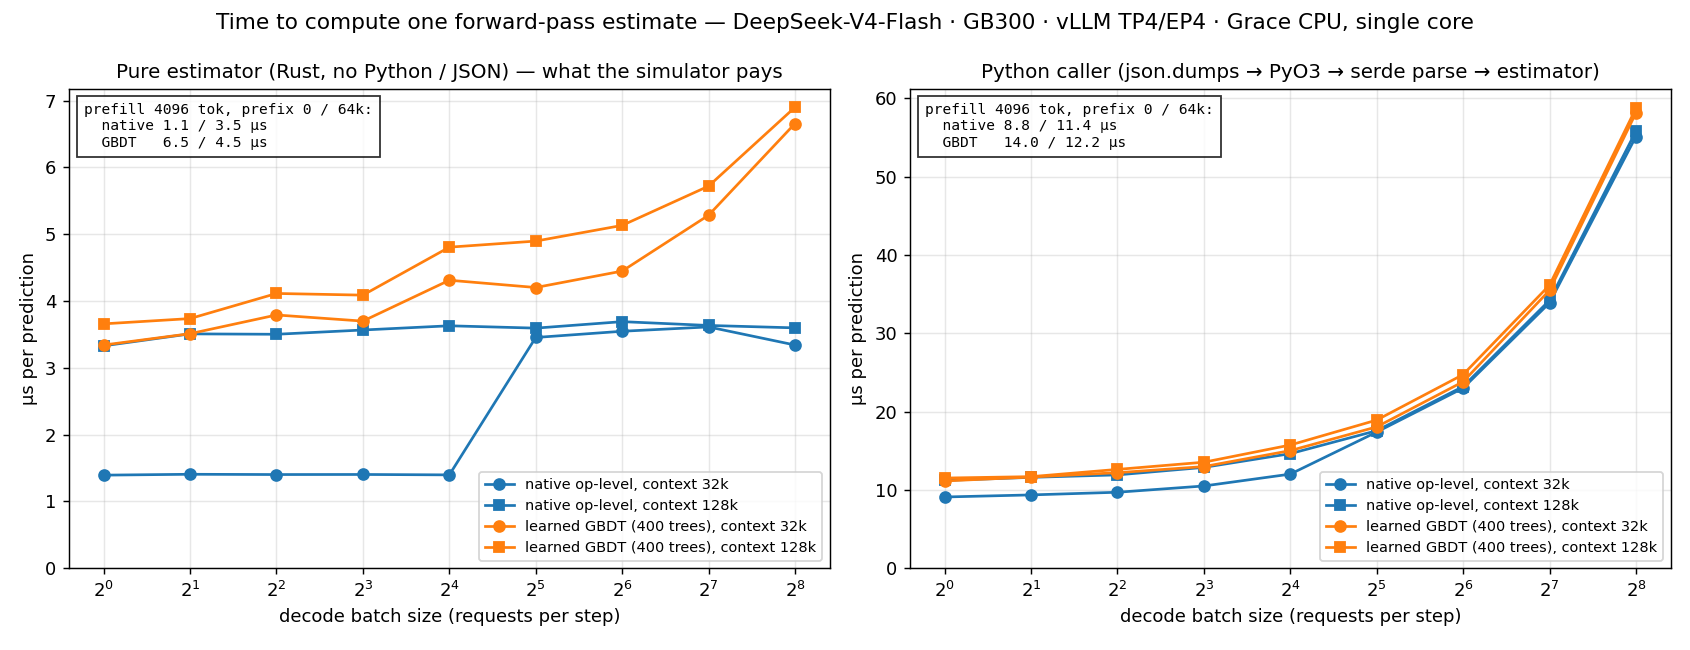
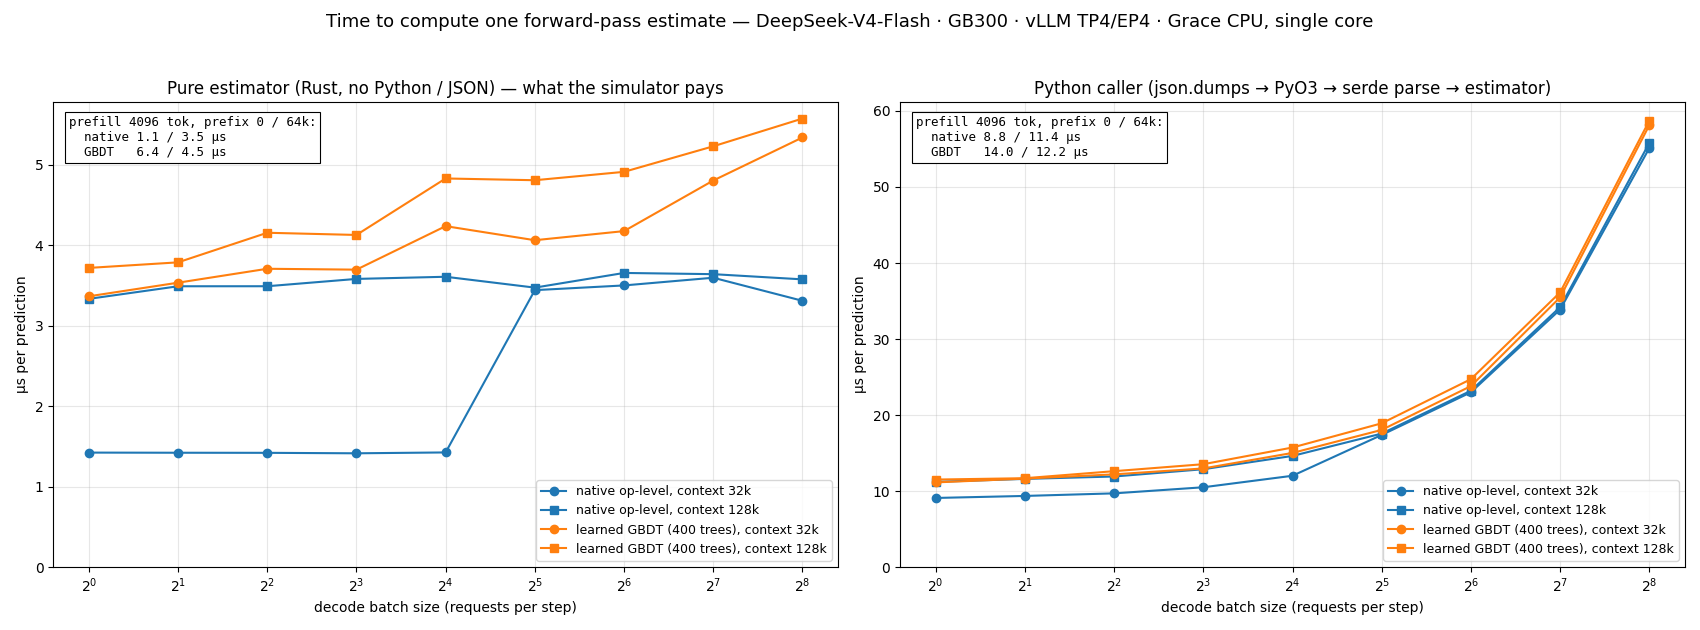
feat(fpm-learned): core4 feature preset; docs: feature ablation and re-measured estimator latency
Ablation on the GB300 SGLang V4.1-Flash captures: four features (batch size,
sum extend, sum past, attention proxy) match the 18-feature set within the
training workload mix and on decode extrapolation, but prefill extrapolation
degrades, so core4 is an opt-in preset and sglang18 stays the default.
Re-measured Rust GBDT latency after the single-pass feature build:
3.4-5.6 us from decode batch 1 to 256 (was 3.3-6.9).

diff --git a/python/aisimulate/src/aisimulate_core/sdk/fpm_learned.py b/python/aisimulate/src/aisimulate_core/sdk/fpm_learned.py
@@ -113,10 +113,20 @@ SLOT_FEATURE_NAMES: tuple[str, ...] = tuple(
 FEATURE_NAMES: tuple[str, ...] = AGGREGATE_FEATURE_NAMES + REQUEST_FEATURE_NAMES + SLOT_FEATURE_NAMES
 
 # Feature presets: ``v1`` uses aggregates only (works on any FPM stream),
-# ``sglang18`` / ``hisim`` need per-request lists, ``all`` is the union.
+# ``sglang18`` / ``core4`` / ``hisim`` need per-request lists, ``all`` is the
+# union. ``core4`` is the ablation minimum (batch size, sum extend, sum past,
+# attention proxy): same accuracy as ``sglang18`` in-distribution and for decode
+# extrapolation, worse for prefill extrapolation; see docs/fpm_ml/design.md §3.
+CORE4_FEATURE_NAMES: tuple[str, ...] = (
+    "req_batch_size",
+    "req_sum_extend",
+    "req_sum_past",
+    "req_sum_attn_flops",
+)
 FEATURE_PRESETS: dict[str, tuple[str, ...]] = {
     "v1": AGGREGATE_FEATURE_NAMES,
     "sglang18": REQUEST_FEATURE_NAMES,
+    "core4": CORE4_FEATURE_NAMES,
     "hisim": ("req_batch_size",) + SLOT_FEATURE_NAMES,
     "all": FEATURE_NAMES,
 }
@@ -867,7 +877,7 @@ def _build_parser() -> argparse.ArgumentParser:
     tr.add_argument(
         "--features",
         default=None,
-        help="preset (v1 | sglang18 | hisim | all) or comma-separated feature names; default: sglang18",
+        help="preset (v1 | sglang18 | core4 | hisim | all) or comma-separated feature names; default: sglang18",
     )
     tr.add_argument("--target", choices=TARGETS, default="log_ms")
     tr.add_argument("--max-iter", type=int, default=600)

diff --git a/python/aisimulate/tests/unit/sdk/test_fpm_learned.py b/python/aisimulate/tests/unit/sdk/test_fpm_learned.py
@@ -380,6 +380,26 @@ def test_evaluate_counts_refused_and_unpredicted_iterations() -> None:
     assert "_refused" in fpm_learned._format_report(report)
 
 
+def test_train_core4_preset_roundtrip() -> None:
+    pytest.importorskip("sklearn")
+    iterations = []
+    for i in range(300):
+        nd = 1 + i % 8
+        past = 500 * (1 + (i * 5) % 40)
+        wall = 0.004 + 0.0003 * nd + 0.00000004 * past * nd
+        fpm = _decode_fpm(nd, past * nd, wall, counter=i)
+        fpm["scheduled_requests"]["extend_lengths"] = [1] * nd
+        fpm["scheduled_requests"]["past_kv_lengths"] = [past] * nd
+        iterations.append([fpm])
+    core4 = fpm_learned.FEATURE_PRESETS["core4"]
+    artifact = fpm_learned.train(iterations, "decode", features=core4, max_iter=30, min_store_rows=10)
+    assert artifact["features"] == ["req_batch_size", "req_sum_extend", "req_sum_past", "req_sum_attn_flops"]
+    fpm_learned.validate_artifact(artifact)
+    predict = lambda m: fpm_reference.reference_predict_ms(artifact, m)  # noqa: E731
+    report = fpm_learned.evaluate(artifact, iterations, predict=predict)
+    assert report["pure_decode"]["mape_pct"] < 12.0
+
+
 def test_train_hisim_slot_features_roundtrip() -> None:
     pytest.importorskip("sklearn")
     iterations = []

diff --git a/python/aisimulate/docs/fpm_ml/design.md b/python/aisimulate/docs/fpm_ml/design.md
@@ -167,6 +167,7 @@ The feature space is a fixed 135-name ABI; an artifact lists the names it reads
 | --- | --- | --- |
 | `v1` | 21 aggregates + their `log1p` and derived ratios | stock FPM v1, no lists needed |
 | `sglang18` (default) | the 18 per-request features below | per-request lists |
+| `core4` | `req_batch_size`, `req_sum_extend`, `req_sum_past`, `req_sum_attn_flops` (the ablation minimum, §3.1) | per-request lists |
 | `hisim` | `req_batch_size` + 32 request slots × (present, past, extend), requests sorted by past descending | per-request lists |
 
 The `sglang18` set is the feature definition of the SGLang simulator's
@@ -194,8 +195,58 @@ Why these and not raw lists: trees need a fixed-width input; sums, extremes and 
 attention proxy capture the two cost drivers (GEMM work ∝ Σ e_i, attention work
 ∝ Σ e_i·p_i) plus the batch shape (n, spread) that decides kernel selection and
 padding. `v1` and `hisim` land within 0.3–0.6 pp of `sglang18` on every deployment
-tested; `sglang18` is the default because it is the smallest set that carries the
-per-request information.
+tested; `sglang18` is the default because it carries the per-request information and,
+unlike the smaller subsets below, keeps its accuracy when the training and test workloads
+differ.
+
+### 3.1 How many of the 18 features are needed
+
+Two ablations on the GB300 SGLang V4.1-Flash data of §7.1, same method as the results
+tables (per-step APE, step-weighted). Nested subsets of the 18 (`core10` … `core4`) drop
+the derived terms first and the extremes last:
+
+| subset | features |
+| --- | --- |
+| `core10` | batch size; sum/max/min extend; sum/max/min past; Σ e·p; attention proxy; `is_decode` |
+| `core8` | `core10` without min extend, min past |
+| `core6` | batch size; sum/max extend; sum/max past; attention proxy |
+| `core4` | batch size; Σ extend; Σ past; attention proxy |
+
+**Same workload mix in train and test** (the ten runs pooled, first 60 % of each tier
+trains, last 40 % tests; MAPE):
+
+| features | n | decode | prefill |
+| --- | --- | --- | --- |
+| `sglang18` | 18 | 2.05 % | 1.98 % |
+| `core10` | 10 | 2.04 % | 1.98 % |
+| `core8` | 8 | 2.05 % | 1.97 % |
+| `core6` | 6 | 2.05 % | 1.97 % |
+| `core4` | 4 | 2.02 % | 1.97 % |
+| `v1` (aggregates) | 21 | 2.04 % | 2.16 % |
+
+**Train on one workload, test on another** (all runs of the first train, all runs of the
+second test; MAPE, `sglang18` → `core4`):
+
+| train → test | decode | prefill |
+| --- | --- | --- |
+| AgentX → LongBench | 3.03 → 3.56 % | 0.88 → 0.81 % |
+| LongBench → AgentX | 2.91 → 2.86 % | 6.52 → 15.12 % |
+| AgentX → ShareGPT | 14.14 → 12.41 % | 3.49 → 3.67 % |
+| ShareGPT → AgentX | 3.88 → 4.34 % | 26.23 → 31.79 % |
+| ShareGPT → LongBench | 3.43 → 4.39 % | 43.17 → 55.09 % |
+| LongBench → ShareGPT | 22.45 → 22.17 % | 29.42 → 75.62 % |
+
+Within the training distribution four features are as good as eighteen, for both roles:
+the trees recover the rest (extremes, spread, cross terms) from the sums. Under
+extrapolation the picture splits. Decode moves by at most ±1 pp either way. Prefill gets
+markedly worse with `core4` in four of six directions (LongBench → AgentX 6.5 → 15 %,
+LongBench → ShareGPT 29 → 76 %): a prefill batch's cost depends on how its tokens are
+distributed over requests (one 8k chunk vs. eight 1k requests), which the sums alone do not
+distinguish and the extremes and cross terms do. Hence `core4` is offered as a preset for
+decode-only or in-distribution use, and `sglang18` stays the default. The feature build is
+not the inference bottleneck either way (§8: 2 µs of a 5.6 µs call at batch 256, nothing at
+batch 1). Raw output: `feature_ablation_pooled.txt`, `feature_ablation_cross.txt` in the
+playground `reports/`.
 
 ## 4. Model
 
@@ -478,13 +529,16 @@ step; single Grace core, release build; details and the native-model comparison 
 
 | decode batch size | GBDT alone (Rust call) | through the Python wrapper |
 | --- | --- | --- |
-| 1 | 3.3 µs | 11 µs |
-| 16 | 4.3 µs | 15 µs |
-| 64 | 5.1 µs | 25 µs |
-| 256 | 6.9 µs | 59 µs |
+| 1 | 3.4 µs | 11 µs |
+| 16 | 4.2 µs | 15 µs |
+| 64 | 4.9 µs | 25 µs |
+| 256 | 5.6 µs | 59 µs |
 
-The GBDT itself is nearly flat in batch size (the tree walk is a few microseconds; only the
-18-feature build over the per-request lists grows). Everything above that in the Python
+The GBDT itself is nearly flat in batch size: the tree walk is a few microseconds, and the
+18-feature build over the per-request lists adds about 8 ns per request (2 µs at batch
+256) after the feature vector was made a single pass over the `(extend, past)` pairs with
+no per-call allocation, sorting only for artifacts that read the HiSim slots (before that
+change the batch-256 call was 6.9 µs). Everything above that in the Python
 column is the wrapper serialising the FPM dict to JSON and Rust parsing it, which is linear
 in the length of the two per-request lists. The simulator calls the Rust path directly, so
 a million-step run spends a few seconds in the model.
@@ -511,11 +565,11 @@ JSON and parses it in Rust on every call.
 
 | | **op-level model** (native analytic): ops per estimate¹ | **op-level model**, Rust µs | **learned GBDT**: ops per estimate² | **learned GBDT**, Rust µs | op-level model, Python µs | learned GBDT, Python µs |
 | --- | --- | --- | --- | --- | --- | --- |
-| decode bs 1, context 32k | ~0.5–1.5 k | 1.4 | 1,682 (1,239 comparisons + 400 adds + ~42 feature ops) | 3.3 | 9.1 | 11.1 |
-| decode bs 16, context 32k | ~0.5–1.5 k | 1.4 | 2,072 (1,449 + 400 + ~222) | 4.3 | 12.0 | 15.0 |
-| decode bs 64, context 128k | ~1.5–4 k | 3.7 | 2,736 (1,537 + 400 + ~798) | 5.1 | 23.2 | 24.7 |
-| decode bs 256, context 128k | ~1.5–4 k | 3.6 | 5,040 (1,537 + 400 + ~3,102) | 6.9 | 55.8 | 58.7 |
-| prefill 4096 tokens, prefix 0 | ~0.5–1.5 k | 1.1 | 2,772 (2,329 + 400 + ~42) | 6.5 | 8.8 | 14.0 |
+| decode bs 1, context 32k | ~0.5–1.5 k | 1.4 | 1,682 (1,239 comparisons + 400 adds + ~42 feature ops) | 3.4 | 9.1 | 11.1 |
+| decode bs 16, context 32k | ~0.5–1.5 k | 1.4 | 2,072 (1,449 + 400 + ~222) | 4.2 | 12.0 | 15.0 |
+| decode bs 64, context 128k | ~1.5–4 k | 3.7 | 2,736 (1,537 + 400 + ~798) | 4.9 | 23.2 | 24.7 |
+| decode bs 256, context 128k | ~1.5–4 k | 3.6 | 5,040 (1,537 + 400 + ~3,102) | 5.6 | 55.8 | 58.7 |
+| prefill 4096 tokens, prefix 0 | ~0.5–1.5 k | 1.1 | 2,772 (2,329 + 400 + ~42) | 6.3 | 8.8 | 14.0 |
 | prefill 4096 tokens, prefix 64k | ~1.5–4 k | 3.5 | 1,948 (1,505 + 400 + ~42) | 4.5 | 11.4 | 12.2 |
 | model construction | | 2.1 s (decode), 0.9 s (prefill) | | 5–8 ms | | |
 
@@ -523,15 +577,15 @@ Prefill worker, one request unless stated (µs per estimate, same machine and me
 
 | extend (tokens) | past (KV) | op-level, Rust | learned GBDT, Rust | op-level, Python | learned GBDT, Python |
 | --- | --- | --- | --- | --- | --- |
-| 512 | 0 | 1.06 | 4.63 | 8.8 | 12.4 |
-| 4096 | 0 | 1.06 | 6.31 | 8.8 | 14.2 |
-| 16384 | 0 | 1.05 | 6.20 | 8.8 | 13.7 |
-| 512 | 16,384 | 1.62 | 4.65 | 9.5 | 12.4 |
-| 4096 | 16,384 | 1.62 | 5.03 | 9.5 | 12.7 |
-| 4096 | 65,536 | 3.51 | 4.48 | 11.5 | 12.3 |
+| 512 | 0 | 1.06 | 4.70 | 8.8 | 12.4 |
+| 4096 | 0 | 1.06 | 6.33 | 8.8 | 14.2 |
+| 16384 | 0 | 1.05 | 6.07 | 8.8 | 13.7 |
+| 512 | 16,384 | 1.62 | 4.70 | 9.5 | 12.4 |
+| 4096 | 16,384 | 1.62 | 4.75 | 9.5 | 12.7 |
+| 4096 | 65,536 | 3.51 | 4.47 | 11.5 | 12.3 |
 | 16384 | 65,536 | 3.63 | 4.62 | 11.6 | 12.6 |
-| 2 requests × 4096 | 16,384 each | 1.62 | 4.88 | 9.6 | 12.7 |
-| 4 requests × 4096 | 16,384 each | 1.61 | 4.71 | 10.1 | 13.1 |
+| 2 requests × 4096 | 16,384 each | 1.62 | 4.62 | 9.6 | 12.7 |
+| 4 requests × 4096 | 16,384 each | 1.61 | 4.77 | 10.1 | 13.1 |
 
 The op-level cost does not depend on the chunk size or the number of prefill requests,
 only on the prefix length (1.1 µs at 0, 1.6 µs at 16k, 3.5–4.7 µs at 64k: different
@@ -553,11 +607,12 @@ compressed-attention variants, MoE + shared-expert overlap, logits), each a 1–
 with grid interpolation over 2–3 axes; it is flat in batch size with two plateaus (1.4 µs
 and 3.5 µs) that correspond to different interpolation regions. The GBDT walks 400 trees of
 ~61 nodes (1.2–2.3 k comparisons on these inputs) after building 18 features from the
-per-request lists, which is the mild growth with batch size. **The native model is 1.1–2.7× faster in pure
-compute**; both are a few microseconds, and at the Python boundary the JSON marshalling
+per-request lists in one pass, which is the mild growth with batch size (3.4 → 5.6 µs from
+batch 1 to 256). **The native model is 1.1–3× faster in pure compute on decode and 1.3–6×
+on prefill**; both are a few microseconds, and at the Python boundary the JSON marshalling
 (6–39 µs, linear in batch size because of the two per-request lists) dominates both, so a
 Python caller sees them within 0.3–5 µs of each other. A million-step simulation spends
-1–7 s in either estimator. Accuracy on the real steps of the same deployment: native
+1–6 s in either estimator. Accuracy on the real steps of the same deployment: native
 decode 6.7% / prefill 46%, GBDT 4.0% / 5.1% (§7.2, and below).
 
 What the native model evaluates per step, and how the two compare on real steps:

diff --git a/python/aisimulate/docs/fpm_ml/learned-forward-pass-model.md b/python/aisimulate/docs/fpm_ml/learned-forward-pass-model.md
@@ -175,7 +175,14 @@ python -m aisimulate_core.sdk.fpm_learned train \
     (`req_*`: sum/max/min extend and past, cross terms, attention FLOPs proxy,
     `is_decode`/`is_prefill`; preset `sglang18`);
   - 32 HiSim-style request slots sorted by past KV descending, each
-    `(present, past, extend)` (preset `hisim`).
+    `(present, past, extend)` (preset `hisim`);
+  - `core4`: the four of the 18 that an ablation found sufficient
+    (`req_batch_size`, `req_sum_extend`, `req_sum_past`, `req_sum_attn_flops`).
+    Same accuracy as `sglang18` when train and test share the workload mix
+    (2.02 % vs 2.05 % decode, 1.97 % vs 1.98 % prefill on the pooled GB300
+    runs of §4) and for decode across workloads, but prefill extrapolation
+    degrades (LongBench → AgentX 6.5 → 15 %), so it is not the default. The
+    full tables are in `design.md` §3.1.
   The per-request groups need the `extend_lengths` / `past_kv_lengths`
   producer fields described above. Lists must be aligned and cover every
   scheduled request; the Rust validator rejects partial vectors, and an
@@ -395,12 +402,12 @@ step through the PyO3 binding, which is how the simulator uses it.
 | predict decode, Rust, one call per step (through the Python wrapper) | 196,585 steps | 3.78 s (19 µs / step, mean batch 10, max 35) |
 | predict prefill, Rust, one call per step (through the Python wrapper) | 3,803 steps | 0.08 s (22 µs / step, mean batch 1.2) |
 
-The GBDT itself costs 3.3–6.9 µs per prediction from decode batch 1 to 256 (Rust call on
-a prebuilt struct, nearly flat: the tree walk is a few microseconds, only the 18-feature
-build over the per-request lists grows). The per-step numbers above and their growth with
-batch size (9–59 µs from batch 1 to 256) come from the Python wrapper, which serialises
-the FPM dict to JSON and parses it in Rust on every call; the simulator calls the Rust
-path directly. Training the pooled ten-run set (2.7M decode steps) took 25 s on another
+The GBDT itself costs 3.4–5.6 µs per prediction from decode batch 1 to 256 and
+4.5–6.3 µs for prefill (Rust call on a prebuilt struct, nearly flat: the tree walk is a
+few microseconds, the 18-feature build is one pass over the per-request lists at about
+8 ns per request). The per-step numbers above and their growth with batch size (9–59 µs
+from batch 1 to 256) come from the Python wrapper, which serialises the FPM dict to JSON
+and parses it in Rust on every call; the simulator calls the Rust path directly. Training the pooled ten-run set (2.7M decode steps) took 25 s on another
 16-thread machine; loading the compressed stream (204 s) dominates there.
 Artifacts are 100–450 KB of JSON.
 
